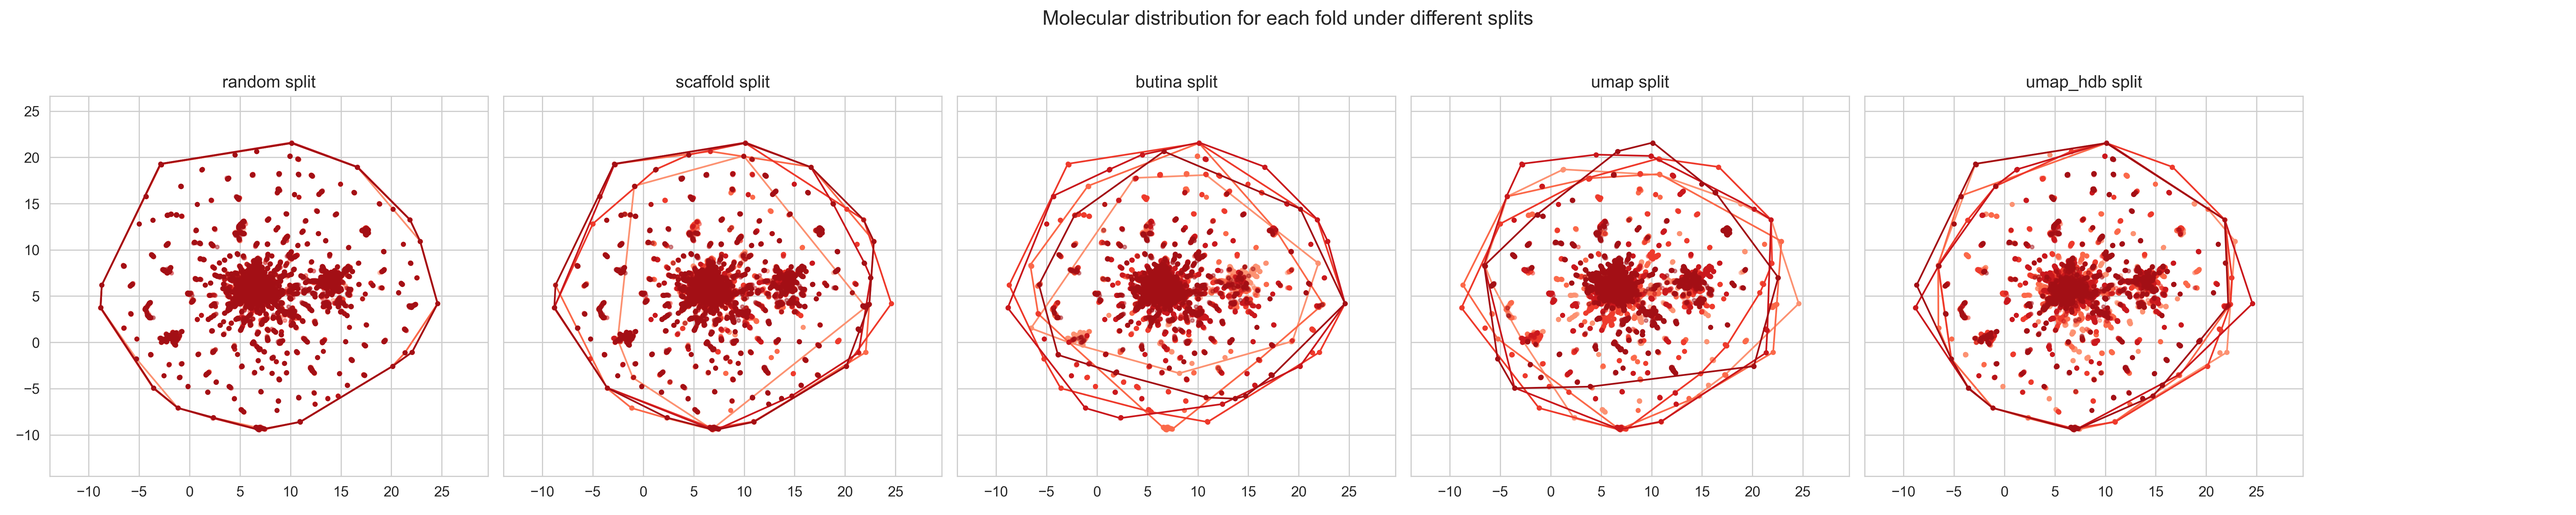
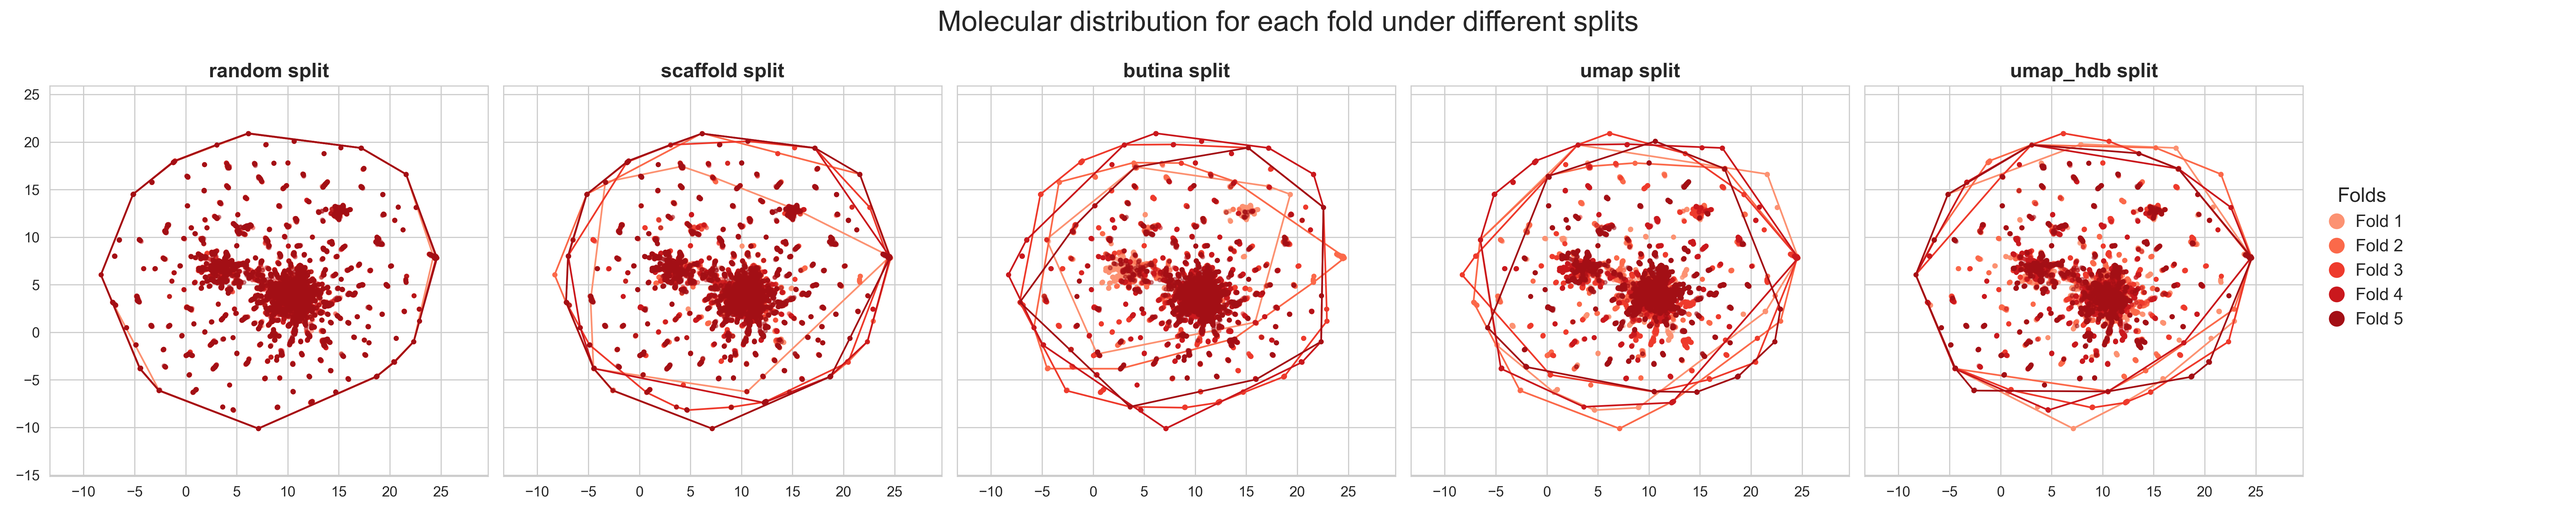
Changing global split fold images and script pt. 2

diff --git a/p2_models/src/glob_cluster_vis.py b/p2_models/src/glob_cluster_vis.py
@@ -4,12 +4,13 @@ from rdkit import Chem, DataStructs
 from rdkit.Chem import AllChem
 import umap, seaborn as sns, matplotlib.pyplot as plt
 from scipy.spatial import ConvexHull
+from matplotlib.lines import Line2D  # <-- added
 
 BASE = Path("p2_models/data/splits")
 METHODS = ["random","scaffold","butina","umap","umap_hdb"]
 FOLDS = [1,2,3,4,5]
 SMI_COL = "Smiles"
-N_BITS, RADIUS = 2048, 2
+N_BITS, RADIUS = 1024, 2
 OUT = Path("p2_models/data/figures/split_folds_embedding.png")
 
 def find_file(dirp, method, fold, split):
@@ -35,8 +36,10 @@ for m in METHODS:
             continue
         df = pd.read_csv(p)
         all_smi.update(df[SMI_COL].dropna().astype(str).tolist())
+
 all_smi = [s for s in (canon(s) for s in all_smi) if s is not None]
-if not all_smi: raise SystemExit("No molecules found.")
+if not all_smi:
+    raise SystemExit("No molecules found.")
 
 # ECFP4 bits and a single UMAP (Hamming ≈ Tanimoto on bits)
 rows = []
@@ -46,6 +49,7 @@ for s in all_smi:
     DataStructs.ConvertToNumpyArray(bv, arr)
     rows.append(arr > 0)
 X = np.vstack(rows)
+
 embed = umap.UMAP(n_components=2, metric="hamming", n_neighbors=30, min_dist=0.15, random_state=42)
 XY = embed.fit_transform(X)
 idx = {s:i for i,s in enumerate(all_smi)}
@@ -67,9 +71,14 @@ for m in present:
 
 # Plot panels
 sns.set_style("whitegrid")
+# --- added: make all subplot titles bigger & bold ---
+plt.rcParams["axes.titlesize"] = 14
+plt.rcParams["axes.titleweight"] = "bold"
+
 n = len(present)
-fig, axes = plt.subplots(1, n, figsize=(5*n,5), sharex=True, sharey=True)
+fig, axes = plt.subplots(1, n, figsize=(5*n, 5), sharex=True, sharey=True)
 if n == 1: axes = [axes]
+
 pad = 5
 xlim = (XY[:,0].min()-pad, XY[:,0].max()+pad)
 ylim = (XY[:,1].min()-pad, XY[:,1].max()+pad)
@@ -91,10 +100,30 @@ for ax, m in zip(axes, present):
                 pass
     ax.set_xlim(*xlim); ax.set_ylim(*ylim)
 
-handles, lbls = axes[-1].get_legend_handles_labels()
-fig.legend(handles, lbls, loc="center left", bbox_to_anchor=(1.02, 0.5), title="Folds")
-fig.suptitle("Molecular distribution for each fold under different splits", y=0.98, fontsize=14)
-plt.tight_layout(rect=[0,0,0.9,0.95])
+# Legend using reds
+legend_handles = [
+    Line2D([0], [0],
+           marker='o', linestyle='None', markersize=10,
+           markerfacecolor=palette[f-1], markeredgecolor=palette[f-1],
+           label=f"Fold {f}")
+    for f in FOLDS
+]
+fig.legend(
+    handles=legend_handles,
+    loc="center left",
+    bbox_to_anchor=(0.895, 0.5),
+    title="Folds",
+    frameon=False,
+    handlelength=1.8,
+    handleheight=0.6,
+    handletextpad=0.2,
+    labelspacing=0.5,
+    prop={"size": 12},
+    title_fontsize=14
+)
+
+fig.suptitle("Molecular distribution for each fold under different splits", y=0.98, fontsize=20)
+plt.tight_layout(rect=[0, 0, 0.90, 0.99])
 OUT.parent.mkdir(parents=True, exist_ok=True)
 fig.savefig(OUT, dpi=300)
-print(f"[ok] saved -> {OUT}")
+print(f"Saved to {OUT}")
